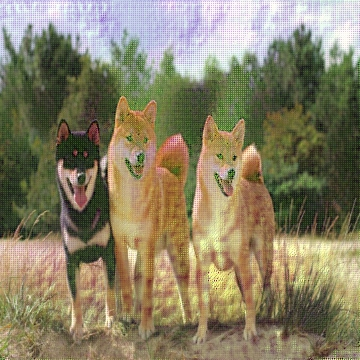
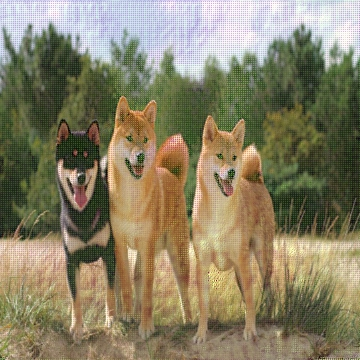
found smaller collision

diff --git a/find_collision.py b/find_collision.py
@@ -79,7 +79,7 @@ classifier = TensorFlowV2Classifier(
 attack = evasion.ProjectedGradientDescentTensorFlowV2(
         estimator=classifier, 
         norm=2, # other common option is np.inf here, but eps and eps_step need to be changed
-        eps=75., # if no success, raise this. for less artifacts, lower this.
+        eps=60., # if no success, raise this. for less artifacts, lower this.
         eps_step=.5, # raising this makes it go faster, but more noisy
         targeted=False,
         max_iter=5000,
